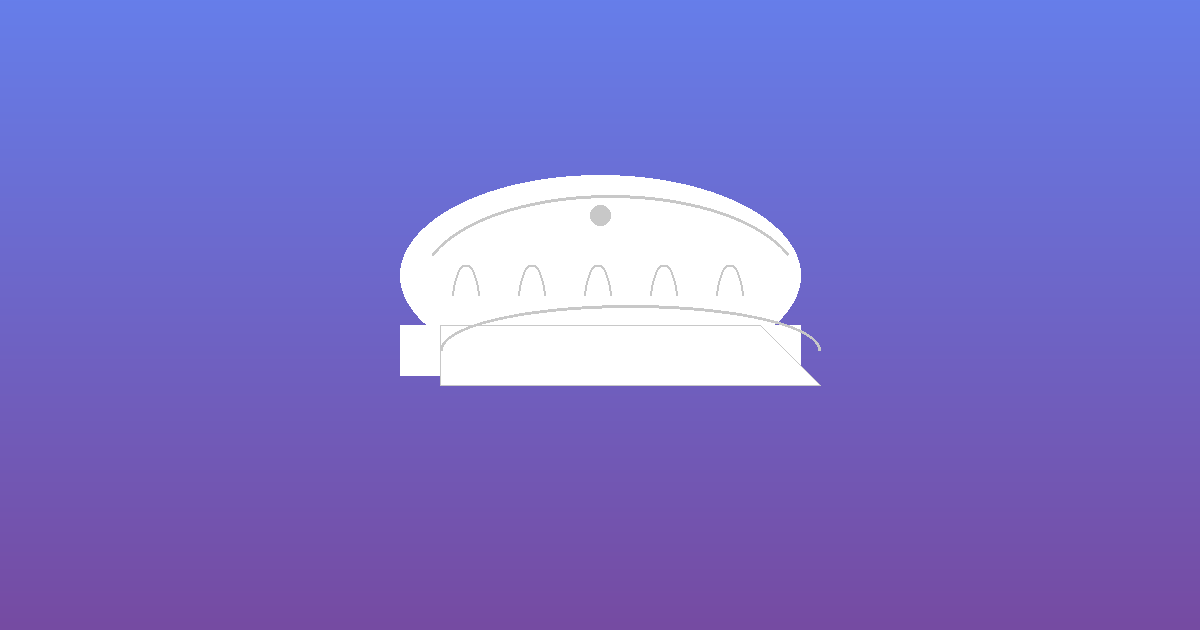
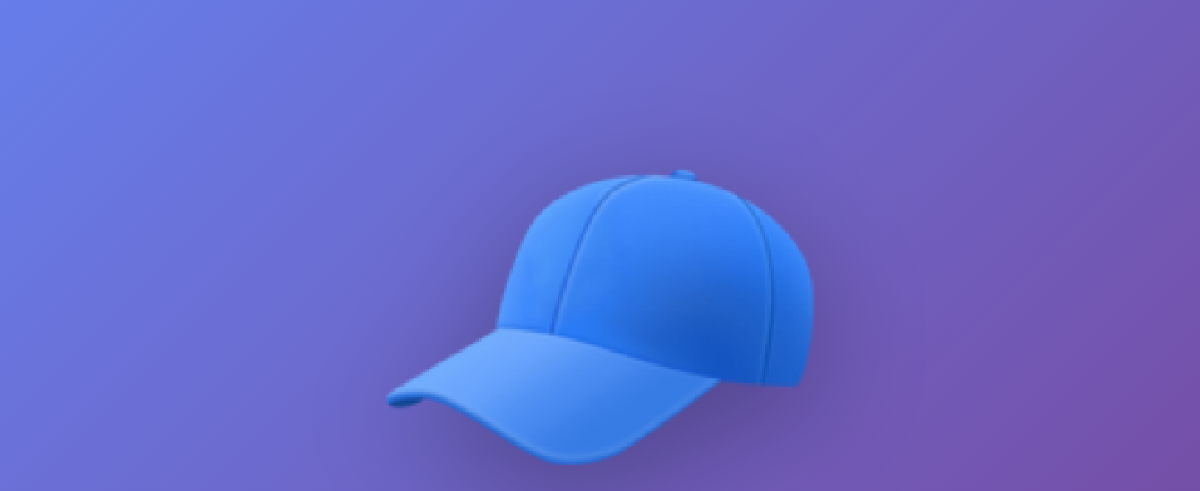
Fix login race condition & update OG image to real emoji
Login Fix:
- Fixed timing issue where Redux state wasn't ready after login
- Added setTimeout(0) to allow state to update before navigation
- Moved localStorage.setItem before dispatch for consistency
- Should fix "error on login then works on refresh" issue

OG Image Fix:
- Used Selenium to screenshot actual emoji (🧢) instead of drawing
- Emoji now renders properly on purple gradient background
- Bumped version to v=3 to bust social media caches
- File size: 199KB (proper emoji rendering)

🤖 Generated with [Claude Code](https://claude.com/claude-code)

diff --git a/frontend/index.html b/frontend/index.html
@@ -16,8 +16,8 @@
     <meta property="og:url" content="https://fraternitybase.com/">
     <meta property="og:title" content="FraternityBase - Find Your Fraternity Partner">
     <meta property="og:description" content="Access 5,000+ Greek organizations across 250+ universities. The ultimate database for college marketing and fraternity partnerships.">
-    <meta property="og:image" content="https://fraternitybase.com/og-cap-image.png?v=2">
-    <meta property="og:image:secure_url" content="https://fraternitybase.com/og-cap-image.png?v=2">
+    <meta property="og:image" content="https://fraternitybase.com/og-cap-image.png?v=3">
+    <meta property="og:image:secure_url" content="https://fraternitybase.com/og-cap-image.png?v=3">
     <meta property="og:image:type" content="image/png">
     <meta property="og:image:width" content="1200">
     <meta property="og:image:height" content="630">
@@ -28,7 +28,7 @@
     <meta property="twitter:url" content="https://fraternitybase.com/">
     <meta property="twitter:title" content="FraternityBase - Find Your Fraternity Partner">
     <meta property="twitter:description" content="Access 5,000+ Greek organizations across 250+ universities. The ultimate database for college marketing and fraternity partnerships.">
-    <meta property="twitter:image" content="https://fraternitybase.com/og-cap-image.png?v=2">
+    <meta property="twitter:image" content="https://fraternitybase.com/og-cap-image.png?v=3">
 
     <!-- Additional Meta Tags -->
     <meta name="theme-color" content="#3B82F6">

diff --git a/frontend/src/pages/LoginPage.tsx b/frontend/src/pages/LoginPage.tsx
@@ -76,6 +76,9 @@ const LoginPage = () => {
         return;
       }
 
+      // Store token in localStorage for API calls
+      localStorage.setItem('token', authData.session.access_token);
+
       // Dispatch to Redux with real user data
       dispatch(loginSuccess({
         user: {
@@ -90,11 +93,10 @@ const LoginPage = () => {
         token: authData.session.access_token
       }));
 
-      // Store token in localStorage for API calls
-      localStorage.setItem('token', authData.session.access_token);
-
-      // Navigate to dashboard
-      navigate('/app/dashboard');
+      // Wait a tick for Redux state to update before navigating
+      setTimeout(() => {
+        navigate('/app/dashboard');
+      }, 0);
     } catch (error: any) {
       console.error('Unexpected login error:', error);
       setError('An unexpected error occurred. Please try again.');

diff --git a/frontend/public/og-emoji.html b/frontend/public/og-emoji.html
@@ -1,0 +1,30 @@
+<!DOCTYPE html>
+<html>
+<head>
+    <meta charset="UTF-8">
+    <style>
+        * {
+            margin: 0;
+            padding: 0;
+            box-sizing: border-box;
+        }
+        body {
+            width: 1200px;
+            height: 630px;
+            display: flex;
+            align-items: center;
+            justify-content: center;
+            background: linear-gradient(135deg, #667eea 0%, #764ba2 100%);
+            font-family: -apple-system, BlinkMacSystemFont, 'Segoe UI', 'Apple Color Emoji', sans-serif;
+        }
+        .emoji {
+            font-size: 450px;
+            line-height: 1;
+            filter: drop-shadow(0 30px 60px rgba(0,0,0,0.3));
+        }
+    </style>
+</head>
+<body>
+    <div class="emoji">🧢</div>
+</body>
+</html>
